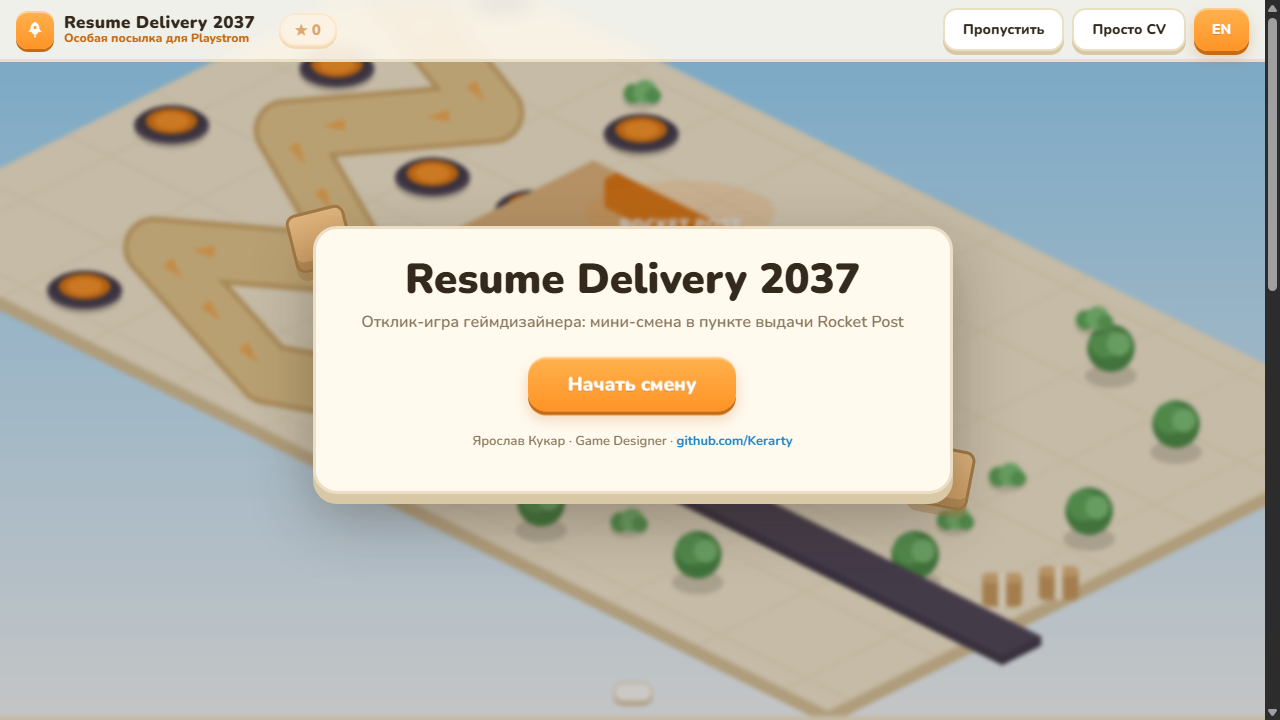
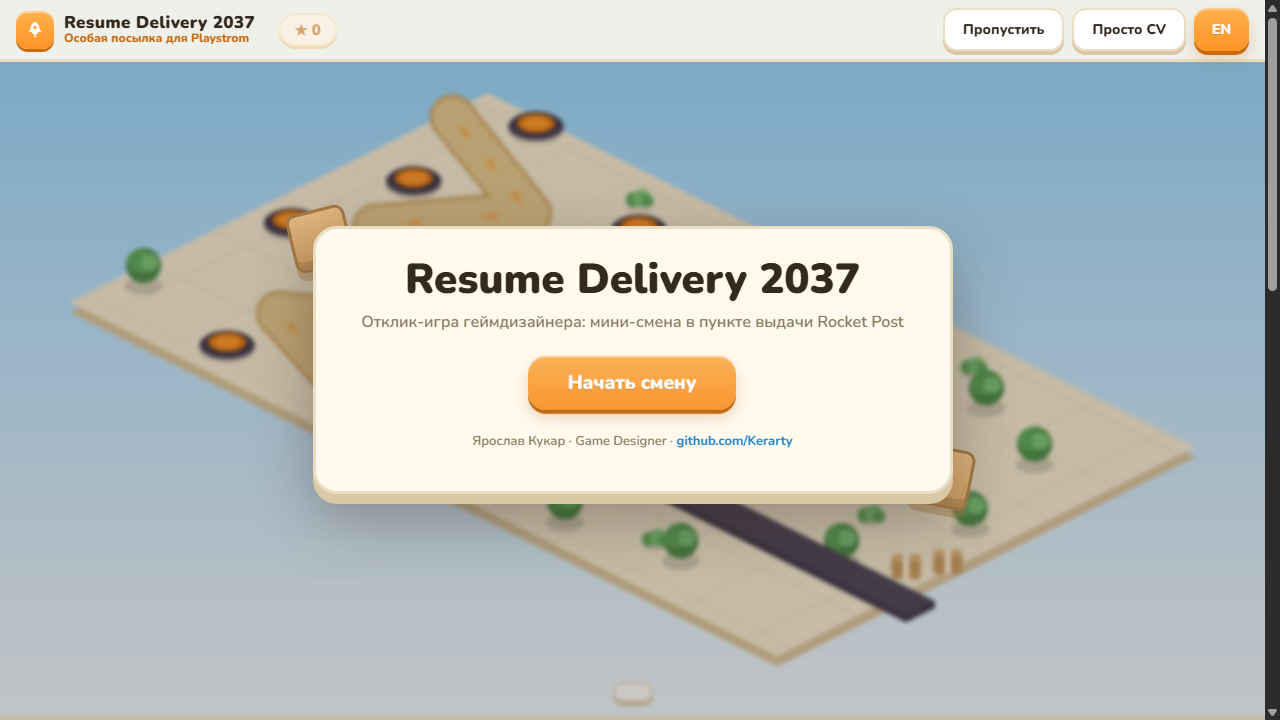
вся карта всегда в экране: канвас на всё окно, мир масштабируется
небо больше не перекрывает мир, клики переводятся в координаты мира, ореол вывески и кусты не наезжают на соседей

Changed region(s): [[0.0, 0.0611, 1.0, 1.0], [0.4062, 0.5194, 0.5625, 0.5806], [0.4062, 0.4889, 0.4375, 0.5194]]

diff --git a/js/game.js b/js/game.js
@@ -348,11 +348,32 @@ export const game = {
 
   async init(container) {
     this.app = new PIXI.Application();
-    await this.app.init({ width: 1280, height: 720, backgroundAlpha: 0, antialias: true });
+    await this.app.init({ width: window.innerWidth, height: window.innerHeight, backgroundAlpha: 0, antialias: true });
     container.appendChild(this.app.canvas);
+    // весь игровой мир — в контейнере, который масштабируется под окно:
+    // карта всегда видна целиком, что бы ни случилось с размерами экрана
+    this.world = new PIXI.Container();
     this.app.ticker.add(t => this.update(t.deltaMS / 1000));
     this.buildScene();
     this.bindInput();
+    this.onResize();
+    window.addEventListener('resize', () => this.onResize());
+  },
+
+  // содержание карты в экранных координатах: x −130..1410, y −55..729
+  onResize() {
+    const w = window.innerWidth, h = window.innerHeight;
+    this.app.renderer.resize(w, h);
+    const s = Math.max(0.5, Math.min(1.3, Math.min((w - 40) / 1540, (h - 140) / 784)));
+    this.world.scale.set(s);
+    this.world.x = w / 2 - 640 * s;
+    this.world.y = h / 2 + 20 - 337 * s;
+    // небо-градиент на весь канвас
+    const bg = this.bgView;
+    bg.clear();
+    for (let i = 0; i <= Math.ceil(h / 20); i++) {
+      bg.rect(0, i * 20, w, 21).fill(lerpColor(C.skyTop, C.skyBottom, Math.min(1, i * 20 / h)));
+    }
   },
 
   buildScene() {
@@ -369,13 +390,13 @@ export const game = {
     L.enemiesLayer = new PIXI.Container();
     L.shots = new PIXI.Container();
     L.fx = new PIXI.Container();
-    stage.addChild(L.bg, L.ground, L.marks, L.spots, L.belt, L.store, L.towers, L.boxes, L.enemiesLayer, L.shots, L.fx);
+    stage.addChild(L.bg);
+    stage.addChild(this.world); // мир поверх неба
+    this.world.addChild(L.ground, L.marks, L.spots, L.belt, L.store, L.towers, L.boxes, L.enemiesLayer, L.shots, L.fx);
 
-    // дневное небо — мягкий градиент
+    // дневное небо — мягкий градиент (перерисовывается на ресайзе)
     const bg = new PIXI.Graphics();
-    for (let i = 0; i < 36; i++) {
-      bg.rect(0, i * 20, 1280, 21).fill(lerpColor(C.skyTop, C.skyBottom, i / 35));
-    }
+    this.bgView = bg;
     L.bg.addChild(bg);
 
     // остров-площадка с толщиной и лёгкой сеткой
@@ -479,7 +500,7 @@ export const game = {
     }
     isoBox(s, -1.6, -1.24, 1.6, -0.96, 1.8, 2.55, C.orangeDark, C.orangeDark, C.orange);
     const glow = new PIXI.Graphics();
-    glow.ellipse(iso(0, -1.1, 2.5).x, iso(0, -1.1, 2.5).y, 96, 32).fill({ color: C.orange, alpha: 0.18 });
+    glow.ellipse(iso(0, -1.1, 2.5).x, iso(0, -1.1, 2.5).y, 66, 22).fill({ color: C.orange, alpha: 0.14 });
     L.store.addChild(s, glow);
     const signText = new PIXI.Text({
       text: 'ROCKET POST',
@@ -706,7 +727,11 @@ export const game = {
     const cv = this.app.canvas;
     const toCanvas = e => {
       const r = cv.getBoundingClientRect();
-      return { x: (e.clientX - r.left) * 1280 / r.width, y: (e.clientY - r.top) * 720 / r.height };
+      const s = this.world.scale.x;
+      return {
+        x: ((e.clientX - r.left) * this.app.renderer.width / r.width - this.world.x) / s,
+        y: ((e.clientY - r.top) * this.app.renderer.height / r.height - this.world.y) / s,
+      };
     };
     cv.addEventListener('pointerdown', e => {
       const p = toCanvas(e);

diff --git a/js/data.js b/js/data.js
@@ -82,7 +82,7 @@ export const DECOR_TREES = [
   [3.5, 5.6], [-10.4, 4.8],
 ];
 export const DECOR_BUSHES = [
-  [7.8, -0.8], [4.5, 4.6], [-5.2, -5.4], [8.2, 0.8], [5.2, -5.4],
+  [7.8, -0.8], [5.6, 4.9], [-5.2, -5.4], [8.2, 0.8], [5.2, -5.4],
 ];
 
 // карточки башен для меню выбора
